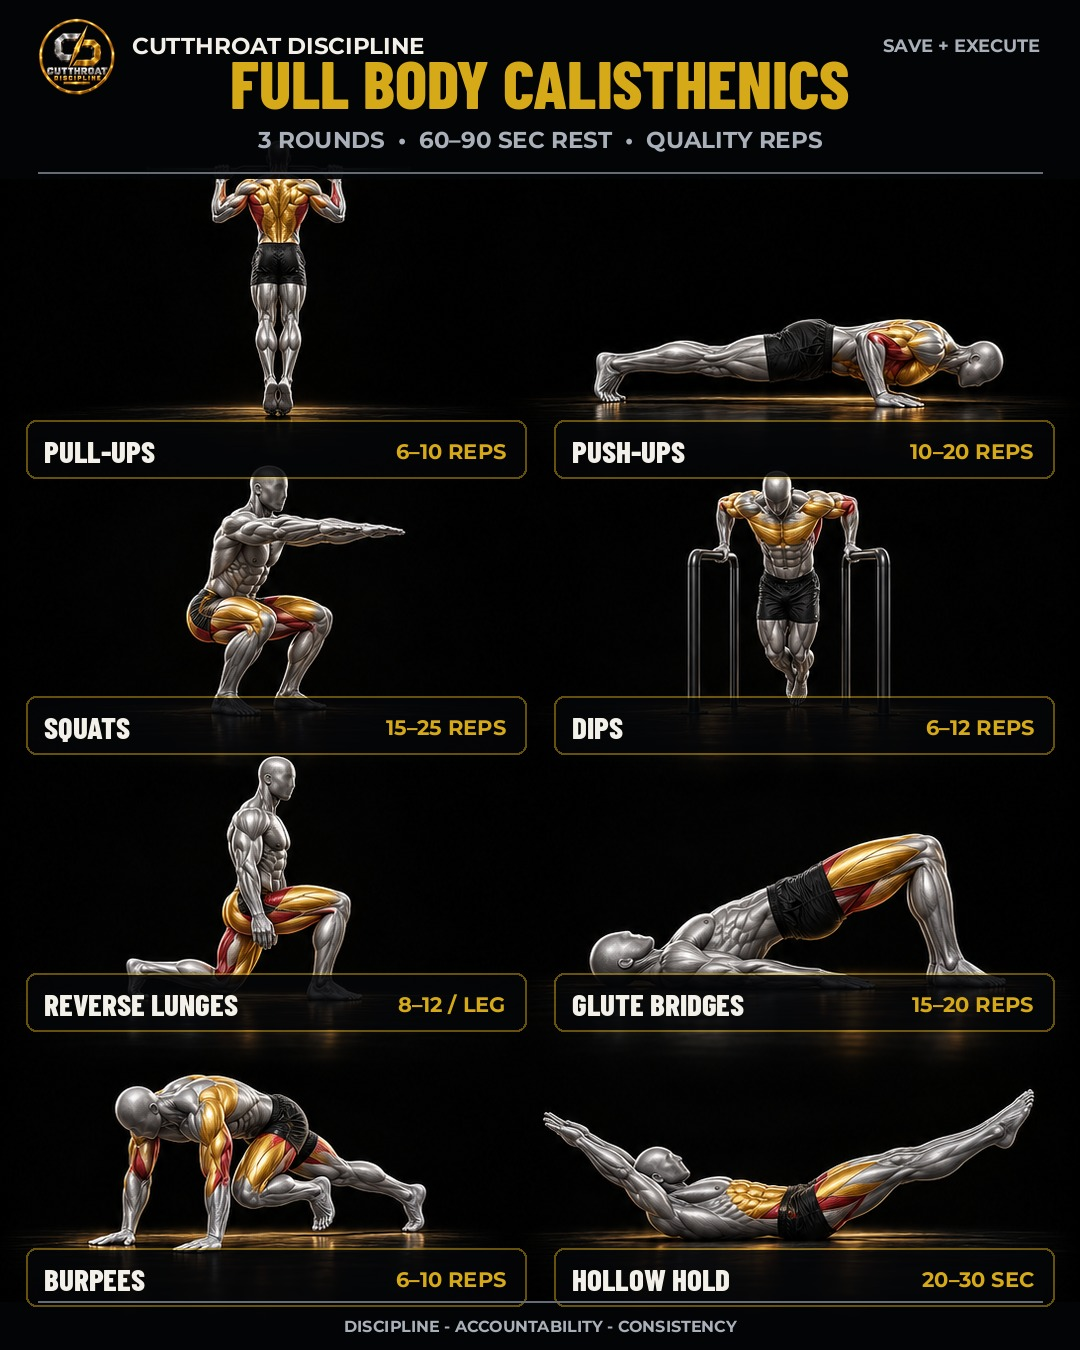
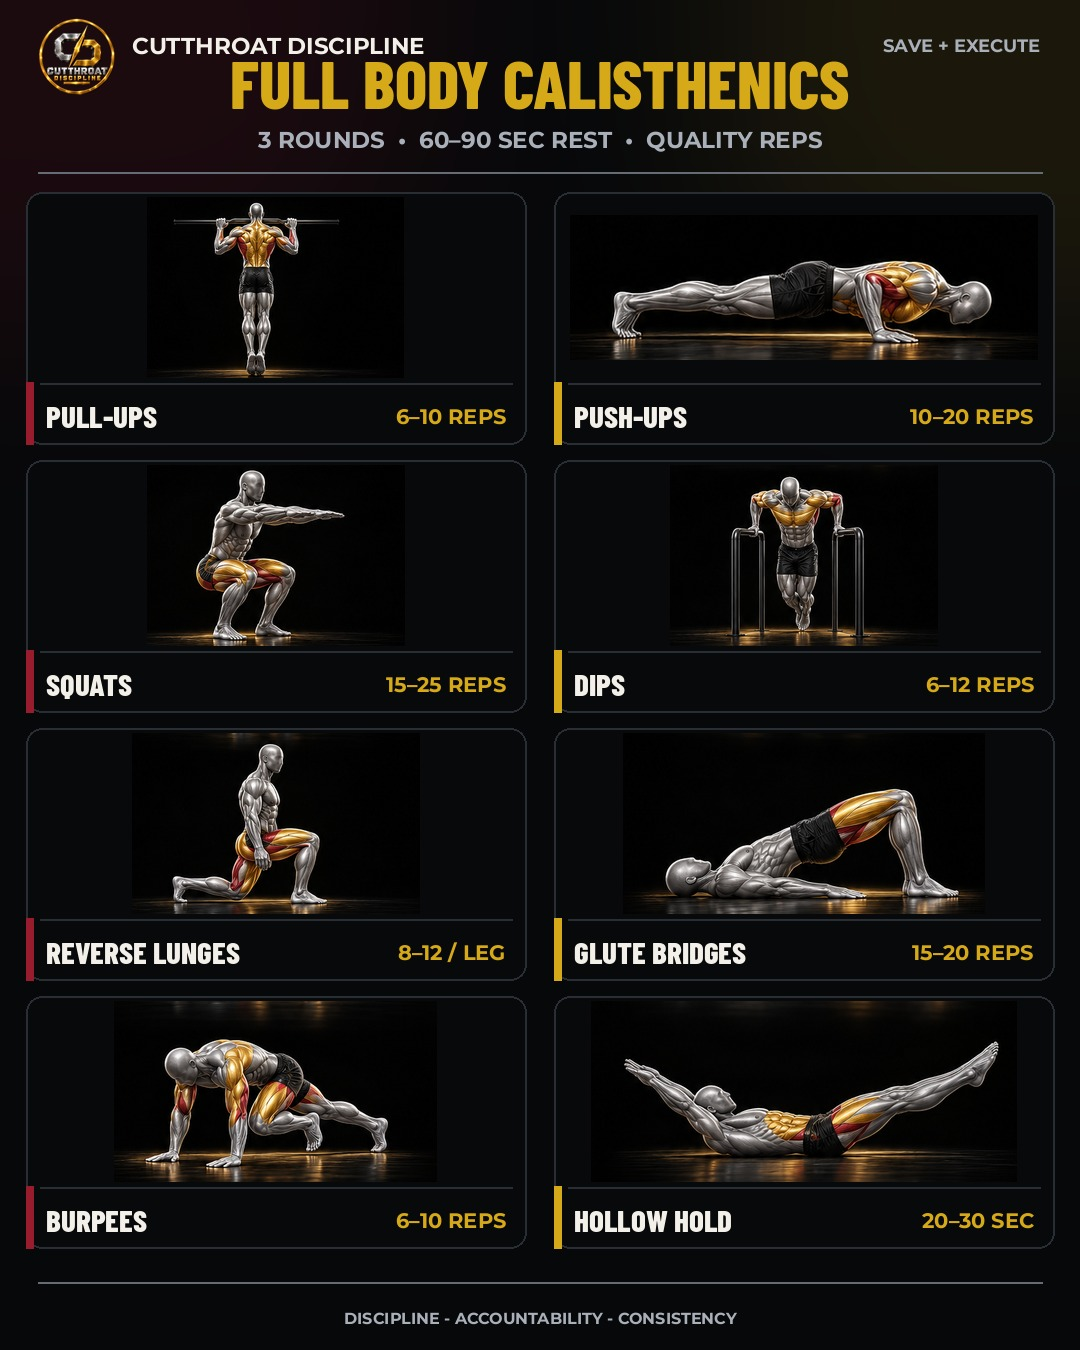
Separate calisthenics images from labels

diff --git a/tools/build_ctd_full_body_calisthenics.py b/tools/build_ctd_full_body_calisthenics.py
@@ -139,17 +139,9 @@ WORKOUT = [
 def build():
     OUT.mkdir(parents=True, exist_ok=True)
     source = Image.open(ANATOMY).convert("RGBA")
-    ratio = max(W / source.width, H / source.height)
-    source = source.resize((round(source.width * ratio), round(source.height * ratio)), Image.Resampling.LANCZOS)
-    left = (source.width - W) // 2
-    top_crop = (source.height - H) // 2
-    im = source.crop((left, top_crop, left + W, top_crop + H))
-    # Protect the typography zones while preserving the rendered anatomy.
-    shade = Image.new("RGBA", (W, H), (0, 0, 0, 0))
-    sd = ImageDraw.Draw(shade)
-    sd.rectangle((0, 0, W, 178), fill=(3, 4, 6, 238))
-    sd.rectangle((0, 1302, W, H), fill=(3, 4, 6, 235))
-    im.alpha_composite(shade)
+    im = Image.new("RGBA", (W, H), BLACK)
+    glow(im, (-180, -220, 480, 400), CRIMSON, 110, 35)
+    glow(im, (650, -220, 1280, 400), GOLD, 110, 25)
     d = ImageDraw.Draw(im)
     logo = Image.open(LOGO).convert("RGBA")
     logo.thumbnail((78, 78), Image.Resampling.LANCZOS)
@@ -160,22 +152,39 @@ def build():
     d.text((W//2, 139), "3 ROUNDS  •  60–90 SEC REST  •  QUALITY REPS", font=F["sub"], fill=SILVER, anchor="mm")
     d.line((38, 172, 1042, 172), fill=MUTED, width=2)
 
-    # Compact labels preserve the reference's photo-first hierarchy.
-    label_rows = [420, 696, 973, 1248]
+    # Crop each demonstration from the source sheet and give it a dedicated
+    # image area. Labels live below the image, never over the athlete.
+    crop_boxes = [
+        (105, 170, 520, 462),   # pull-up
+        (555, 310, 1065, 468),  # push-up
+        (115, 500, 500, 770),   # squat
+        (600, 495, 1015, 775),  # dip
+        (65, 785, 510, 1065),   # reverse lunge
+        (535, 800, 1055, 1060), # glute bridge
+        (45, 1070, 500, 1325),  # burpee
+        (505, 1085, 1070, 1325),# hollow hold
+    ]
+    card_w, card_h = 500, 252
+    start_y, row_gap = 192, 16
     for i, (name, reps, target) in enumerate(WORKOUT):
         col, row = i % 2, i // 2
         x = 26 if col == 0 else 554
-        y = label_rows[row]
-        layer = Image.new("RGBA", (W, H), (0, 0, 0, 0))
-        ld = ImageDraw.Draw(layer)
-        ld.rounded_rectangle((x, y, x+500, y+58), radius=10, fill=(4, 5, 7, 220), outline=(214,169,24,120), width=2)
-        im.alpha_composite(layer)
+        y = start_y + row * (card_h + row_gap)
+        d.rounded_rectangle((x, y, x+card_w, y+card_h), radius=16, fill="#08090B", outline="#292D34", width=2)
+        crop = source.crop(crop_boxes[i])
+        crop.thumbnail((468, 181), Image.Resampling.LANCZOS)
+        px = x + (card_w - crop.width) // 2
+        py = y + 5 + (181 - crop.height) // 2
+        im.alpha_composite(crop, (px, py))
         d = ImageDraw.Draw(im)
-        d.text((x+18, y+12), name, font=font(HEAD, 31), fill=WHITE)
-        d.text((x+480, y+18), reps, font=F["reps"], fill=GOLD, anchor="ra")
+        d.line((x+14, y+191, x+card_w-14, y+191), fill="#292D34", width=2)
+        d.rectangle((x, y+190, x+7, y+card_h), fill=CRIMSON if col == 0 else GOLD)
+        d = ImageDraw.Draw(im)
+        d.text((x+20, y+205), name, font=font(HEAD, 31), fill=WHITE)
+        d.text((x+480, y+211), reps, font=F["reps"], fill=GOLD, anchor="ra")
 
-    d.line((38, 1301, 1042, 1301), fill=MUTED, width=2)
-    d.text((W//2, 1326), "DISCIPLINE - ACCOUNTABILITY - CONSISTENCY", font=F["footer"], fill=SILVER, anchor="mm")
+    d.line((38, 1282, 1042, 1282), fill=MUTED, width=2)
+    d.text((W//2, 1318), "DISCIPLINE - ACCOUNTABILITY - CONSISTENCY", font=F["footer"], fill=SILVER, anchor="mm")
 
     final = im.convert("RGB")
     final.save(OUT / "full-body-calisthenics.png", optimize=True)
